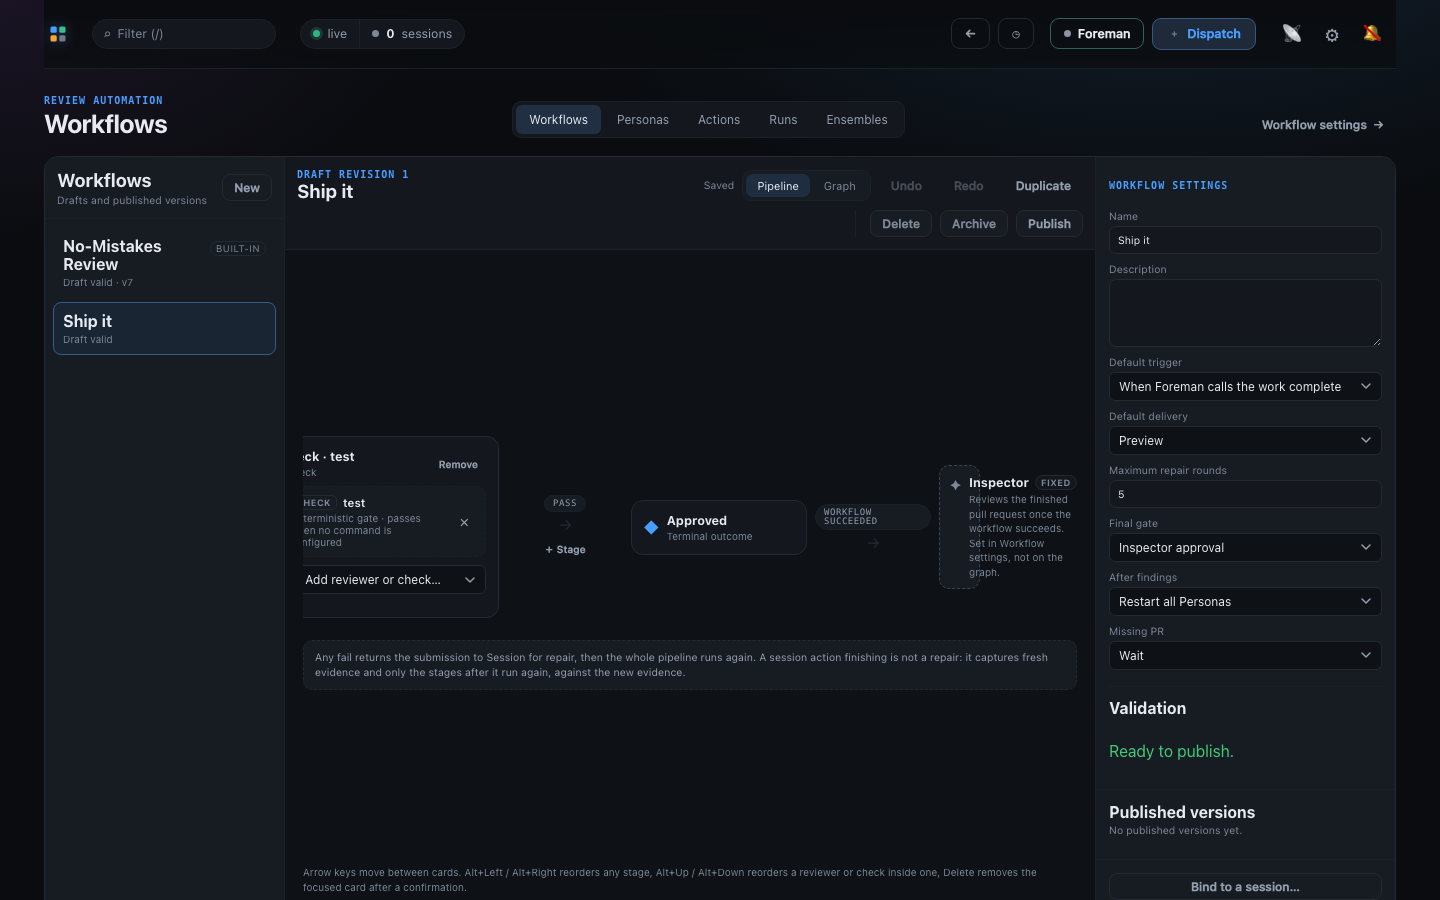
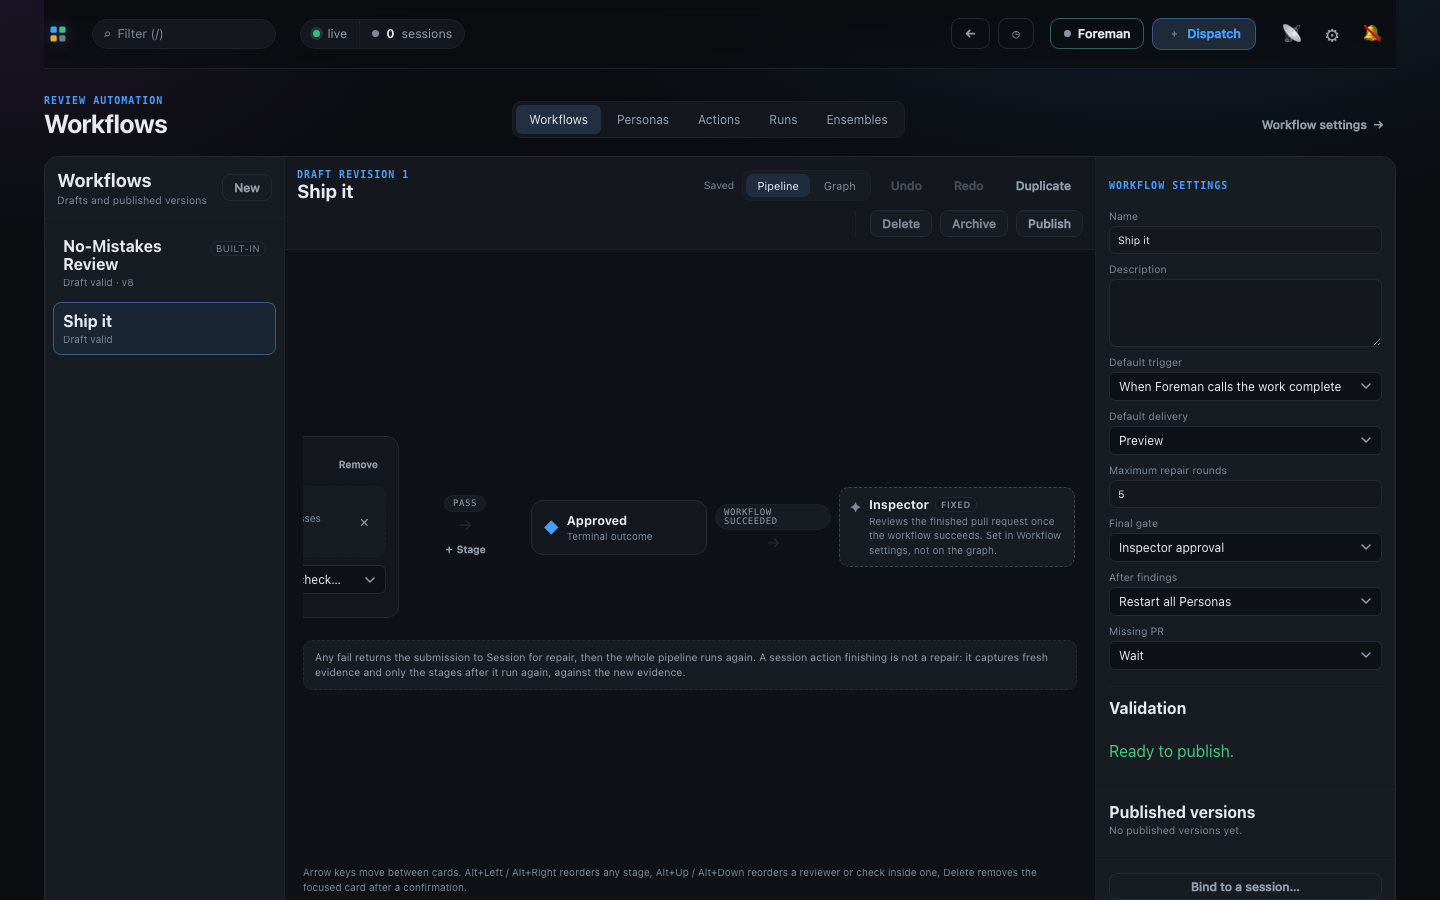
docs(workflows): renumber the Phase 4 captures behind main's, and calm the sweep
Main added captures 07 and 08 while this branch was open, so the two Phase 4 frames
move to 09 and 10 and the pull-request mismatch pair to 11 and 12. The two Phase 4
captures were re-added to the shared evidence spec, which took main's side wholesale
in the rebase.

Also raises the e2e workflow sweep from 250ms to 1s. It runs in every daemon this
suite starts, not only the ones running an action, and four workers each hold a
daemon and a browser - `queued-turn-recall` has a real five-second budget between
two submits, and it flaked once under the full suite. Still fifteen times faster
than shipped, which is far more than the action specs need. Two consecutive full
runs green afterwards.

diff --git a/e2e/specs/workflow-session-action-evidence.spec.ts b/e2e/specs/workflow-session-action-evidence.spec.ts
@@ -323,4 +323,27 @@ test("capture a completed continuation", async ({ dashboard, daemon }) => {
   await expect(dashboard.locator(".wf-run-notice"))
     .toContainText("does not spend a repair round");
   await shoot(dashboard, "08-completed-continuation");
+
+  // 9. The shipped Pull Request action, read-only.
+  //
+  //    The two fields it exists for are visible together - its required skill and the
+  //    completion it promises - and both are disabled, because a built-in has no save.
+  await dashboard.goto(`${daemon.baseURL}/#/workflows/actions`);
+  await dashboard.getByRole("button", { name: /Pull Request/ }).click();
+  await expect(dashboard.locator(".wf-state.builtin")).toBeVisible();
+  await shoot(dashboard, "09-builtin-pull-request-action");
+
+  // 10. No-Mistakes Review v8, scrolled to where its claim lives.
+  //
+  //     The Pull Request stage, then End, then the fixed Inspector footer, in that order. That
+  //     ordering IS the feature: the action opens the pull request and reaches End, and the
+  //     Inspector reviews it afterwards. A capture that showed the footer looking finished the
+  //     moment the action completed would be the misreading to catch.
+  await dashboard.goto(`${daemon.baseURL}/#/workflows`);
+  await dashboard.getByRole("button", { name: /No-Mistakes Review/ }).click();
+  await expect(dashboard.locator(".wf-pipeline-strip")).toBeVisible();
+  await dashboard.locator(".wf-pipeline-strip").evaluate((el) => { el.scrollLeft = el.scrollWidth; });
+  await expect(dashboard.locator("li.wf-pipeline-reviewer").filter({ hasText: "Pull Request" }))
+    .toBeVisible();
+  await shoot(dashboard, "10-no-mistakes-v8-pull-request-stage");
 });

diff --git a/e2e/specs/workflow-pull-request-mismatch.spec.ts b/e2e/specs/workflow-pull-request-mismatch.spec.ts
@@ -220,7 +220,7 @@ test("a stray pull request is named on screen, and never read as having none", a
   await expect(card).toContainText("PR on another branch");
   await expect(card).toContainText("opened a pull request from a different branch");
   await expect(card).not.toContainText("Awaiting PR");
-  await shoot(dashboard, "09-pr-on-another-branch");
+  await shoot(dashboard, "11-pr-on-another-branch");
 
   // The same run, with the pull request found in another repository entirely.
   //
@@ -239,7 +239,7 @@ test("a stray pull request is named on screen, and never read as having none", a
 
   await expect(card).toContainText("PR on another repo");
   await expect(card).toContainText("in a different repository");
-  await shoot(dashboard, "10-pr-on-another-repo");
+  await shoot(dashboard, "12-pr-on-another-repo");
 
   // A WAIT throughout, never a block: the run is still live and the action is still waiting,
   // which is what lets a turn that opened a stray first and the right one second recover.

diff --git a/e2e/fixtures/daemon.ts b/e2e/fixtures/daemon.ts
@@ -171,7 +171,13 @@ export async function startDaemon(): Promise<DaemonHandle> {
       // once its turn has settled. Shipped at 15s for a laptop with real agents on it; here
       // every turn is already over by the time the first sweep would have looked, so the
       // default is pure wall clock in every action spec.
-      MISSION_WORKFLOW_SWEEP_MS: "250",
+      //
+      // A second and lower, deliberately: this runs in EVERY daemon this suite starts, not
+      // only the ones running an action, and four workers each hold a daemon and a browser.
+      // `queued-turn-recall` has a real five-second budget between two submits, so background
+      // work here is not free - and a sweep fifteen times faster than shipped is already far
+      // more than the action specs need.
+      MISSION_WORKFLOW_SWEEP_MS: "1000",
       // Belt and braces: if some path ever escaped the fake bins, an unset key fails loudly
       // instead of quietly spending.
       ANTHROPIC_API_KEY: "",

diff --git a/docs/evidence/workflow-session-action-authoring/README.md b/docs/evidence/workflow-session-action-authoring/README.md
@@ -185,3 +185,65 @@ That is `parent evidence -> action turn -> fresh evidence -> downstream stages`,
 screen. Nothing in it is stubbed: a real git worktree, a real SDK session with a real child
 process behind it, the instruction really typed into that session's pane, and the child segment
 captured from a real `git` read of the worktree. Only the model is a fake.
+
+## 9. The shipped Pull Request action
+
+`09-builtin-pull-request-action-*.png`
+
+The built-in read-only, so the two contract fields it exists for are visible together:
+`Required skill · pull-request` and `Completes when · Pull request is opened and verified`,
+both disabled because a built-in has no save. The editor carries the exact shipped Markdown -
+the same bytes a run types - and the byte counter beside it is what refuses an instruction that
+could not be delivered whole.
+
+Duplicate is the only lit control, which is the whole affordance: a copy you own keeps that
+completion and that skill, so a customized instruction does not quietly lose its verification.
+
+## 10. No-Mistakes Review v8, at the end of the strip
+
+`10-no-mistakes-v8-pull-request-stage-*.png`
+
+Read left to right: the **Pull Request** session action stage, the `COMPLETE` seam, **Complete**
+(End), the `WORKFLOW SUCCEEDED` seam, and only then the fixed **Inspector** footer. That order
+is the feature - the action opens the pull request and reaches End, and the Inspector reviews it
+afterwards. The two are deliberately separate cards, and the footer is dashed and badged `FIXED`
+so it cannot read as a stage the author placed.
+
+The settings rail shows the other half - **Missing PR: Wait** - which is correct only because
+the graph cannot reach End without a pull request. A version whose gate had to prepare one would
+say `Prepare PR` here.
+
+**This frame caught a real defect.** The Inspector footer was the one card in the strip
+declaring a `width` without `flex: none`. The strip is a flex row that scrolls rather than
+reflows, so flex-shrink runs before `overflow-x` ever applies: the card collapsed toward
+min-content and its grid let the sentence spill out past the border, drawing the dashed edge as
+a ~40px sliver beside its own text. Invisible until a pipeline was long enough to overflow -
+which is exactly what a fourth stage produced. Fixed in `styles.css` and pinned by
+`test/workflow-pipeline-label-width.test.ts`, which now asserts the property for every strip
+card rather than for the one that happened to break.
+
+## 11 and 12. A pull request opened somewhere else
+
+`11-pr-on-another-branch-*.png`, `12-pr-on-another-repo-*.png`
+
+Captured by `e2e/specs/workflow-pull-request-mismatch.spec.ts`, which runs a real Pull Request
+action against a real dispatched session and parks it on each state in turn. The chip appears in
+three places at once - the stage card, the member row, and the Session actions card - and the
+sentence beside it names the remedy, because the two mistakes are fixed differently.
+
+These are the states that must not read as *Awaiting PR*. "No pull request yet" and "a pull
+request was opened somewhere else" look identical from the outside and are opposite problems,
+and an operator told only "awaiting" keeps watching for something that already exists.
+
+**Both frames caught real defects, and neither was reachable from a unit test.**
+
+- The bound checkout's repository was compared as `git rev-parse --show-toplevel`, which is the
+  WORKING TREE. Mission Control dispatches every agent into a linked worktree, so that path is
+  per-session while the pull request is adopted against the repository the worktree was cut
+  from - and a correct pull request therefore compared as belonging to a different repository
+  on the ordinary path. Both sides now normalise to the resolved `--git-common-dir`, which is
+  one string for a main checkout and all of its worktrees.
+- A wait-reason change was durable but never published, so the run detail page kept rendering
+  the label it first drew. Completion and every block already published; the waits - the states
+  an operator sits and watches - did not. `setSessionActionWait` now publishes when the reason
+  actually changes.
